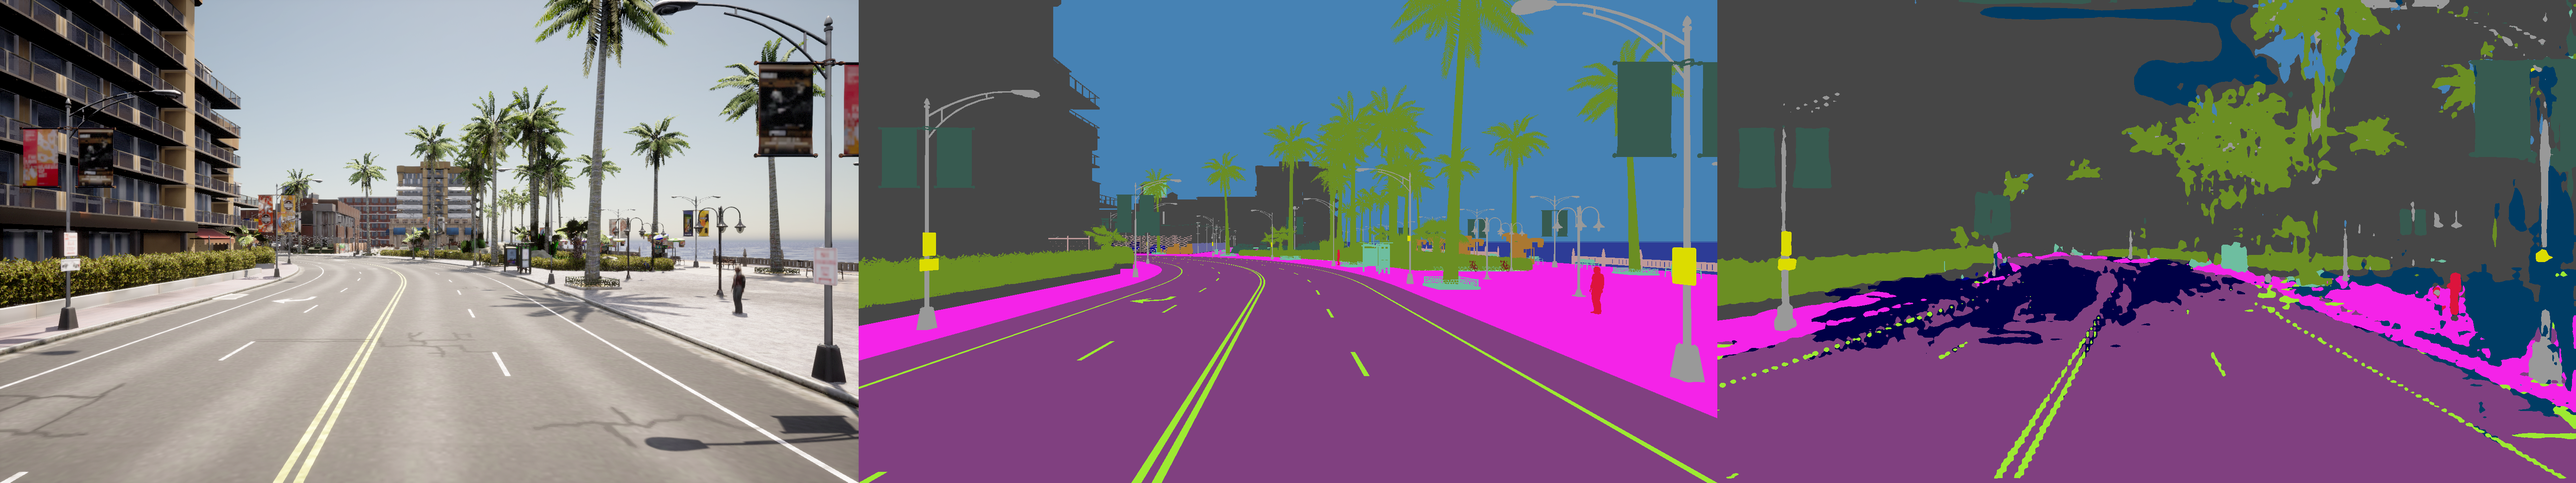
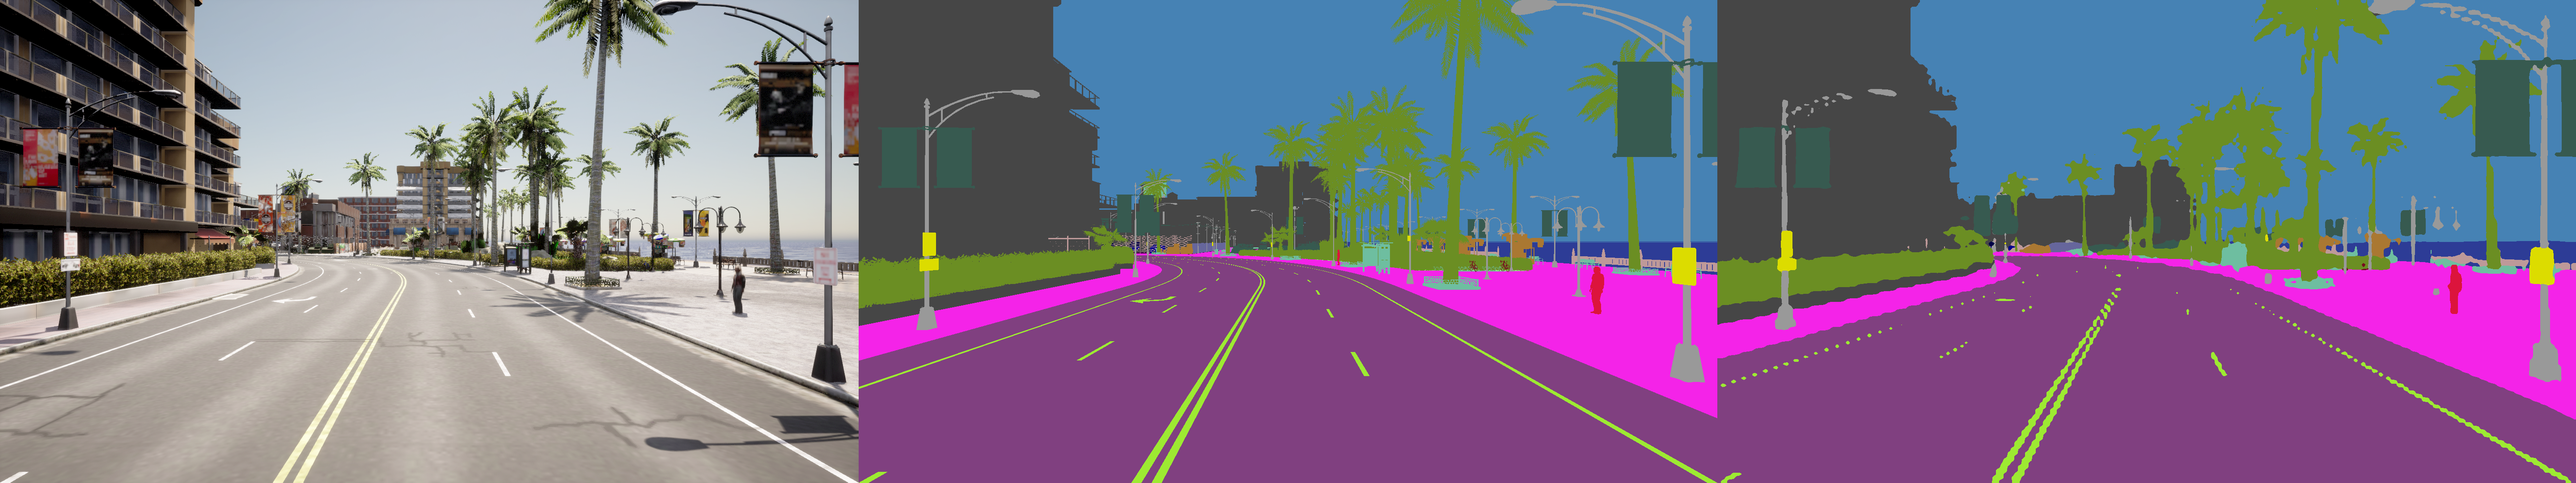
sem seg final updates

Changed region(s): [[0.6562, 0.0, 1.0, 0.9167]]

diff --git a/index.html b/index.html
@@ -39,13 +39,17 @@
         </p>
         <h3_1>Semantic Segmentation</h3_1>
         <figure class = "imageHolder">
-            <figcaption1>Left to Right: RGB, Ground Truth, Prediction</figcaption1>
+            <figcaption1>Left to Right: RGB, Ground Truth, Prediction(Trained on Clear Day)</figcaption1>
             <img src="./images/imgs/0.png" alt="semantic segmentation output clear day">
             <figcaption>Clear Day</figcaption>
         </figure>
         <figure class = "imageHolder">
             <img src="./images/imgs/0foggy.png" alt="semantic segmentation output clear day">
             <figcaption>Foggy Day</figcaption>
+        </figure>
+        <figure class = "imageHolder">
+            <img src="./images/imgs/0rainy.png" alt="semantic segmentation output rainy day">
+            <figcaption>Rainy Day</figcaption>
         </figure>
         <figure class = "imageHolder">
             <img src="./images/imgs/0night.png" alt="semantic segmentation output clear day">
